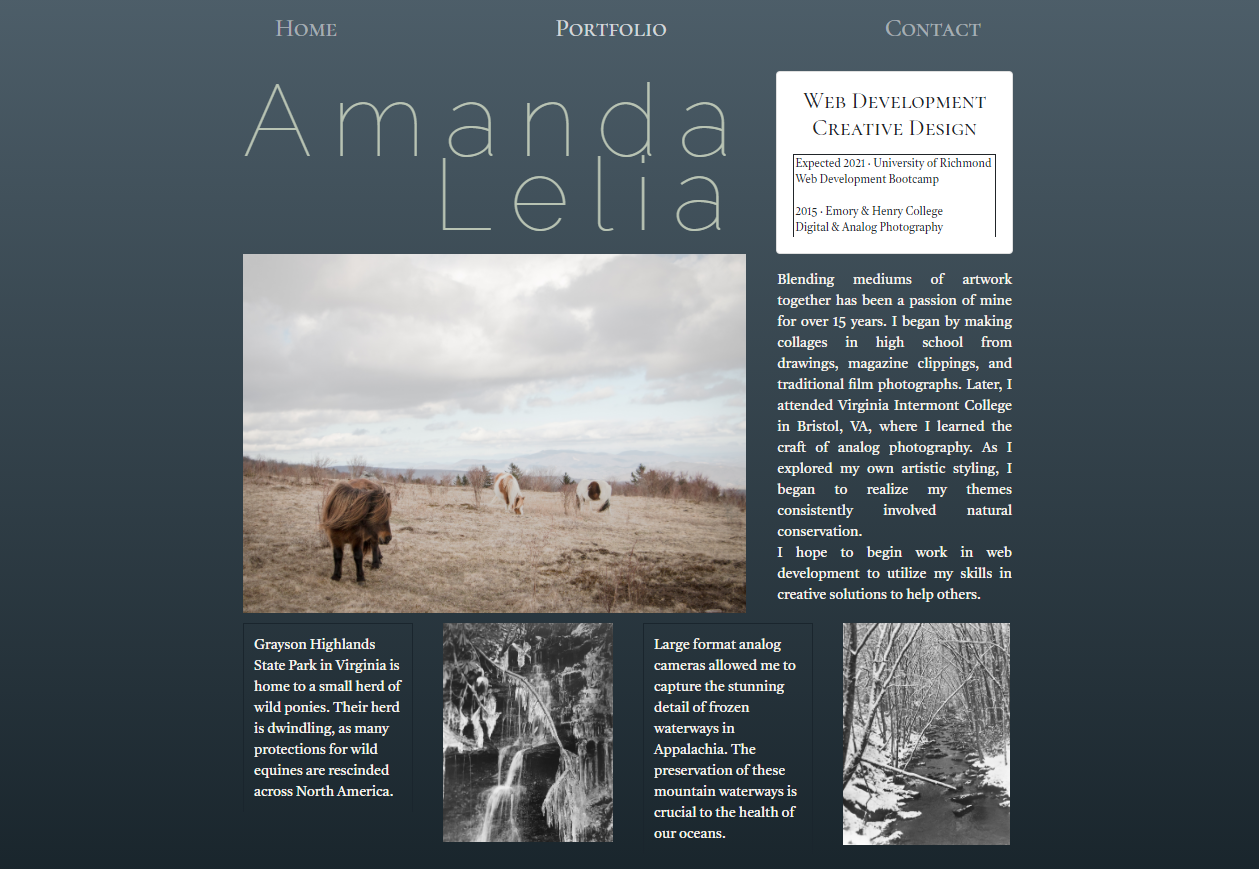
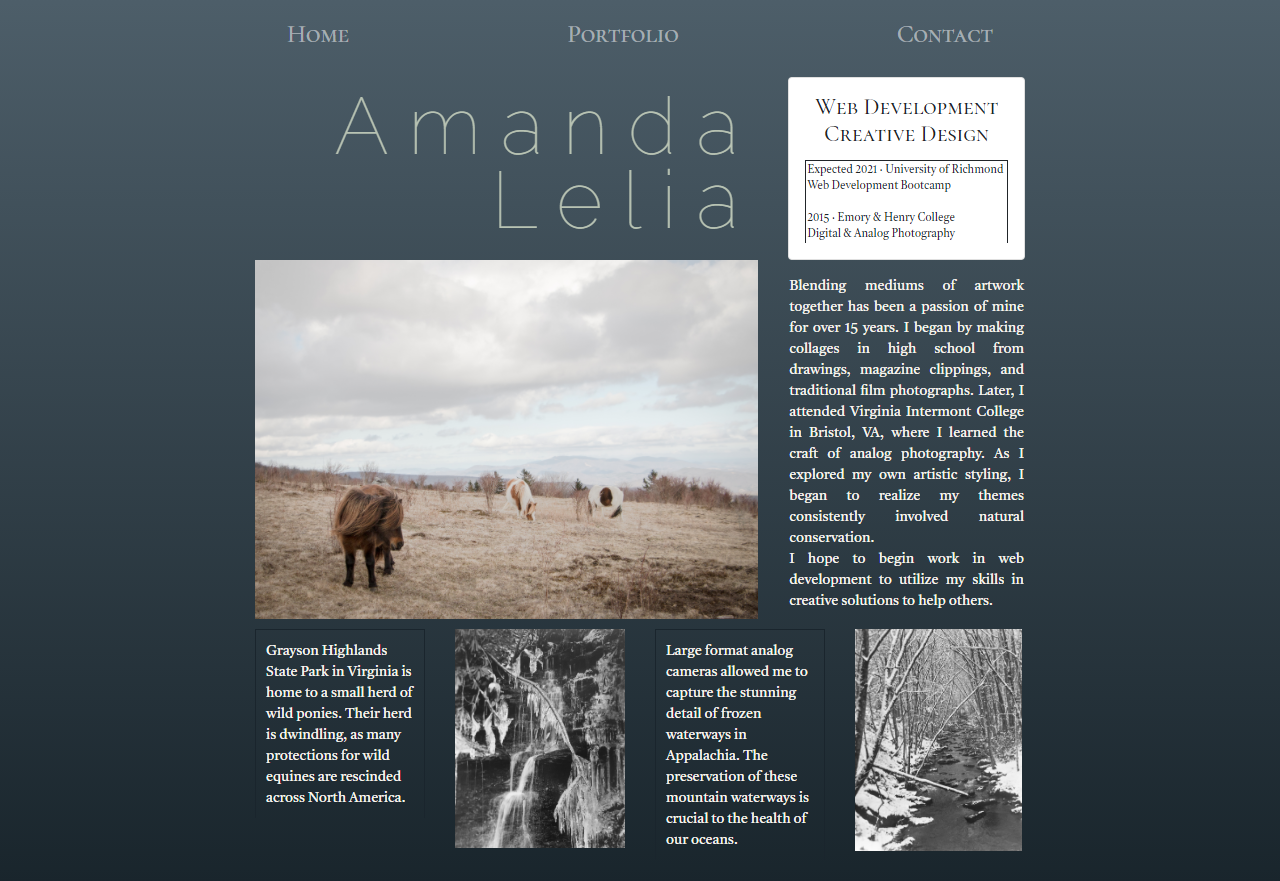
Updated h1 font size in all CSS to be more responsive

diff --git a/assets/css/contact-style.css b/assets/css/contact-style.css
@@ -27,7 +27,7 @@ nav {
 }
 h1 {
     font-family: 'Raleway', sans-serif;
-    font-size: 8vw;
+    font-size: 5em;
     color: #B8C3B3;
     text-align: right;
     line-height: 74px;

diff --git a/assets/css/index-style.css b/assets/css/index-style.css
@@ -33,7 +33,7 @@ nav {
 
 h1 {
     font-family: 'Raleway', sans-serif;
-    font-size: 8vw;
+    font-size: 5em;
     color: #B8C3B3;
     text-align: right;
     line-height: 74px;

diff --git a/assets/css/port-style.css b/assets/css/port-style.css
@@ -36,7 +36,7 @@ nav {
 
 h1 {
     font-family: 'Raleway', sans-serif;
-    font-size: 8vw;
+    font-size: 5em;
     color: #B8C3B3;
     text-align: right;
     line-height: 74px;

diff --git a/README.md b/README.md
@@ -13,8 +13,8 @@ Deployed link: [https://awiehrs.github.io/02-HW/]
 
 ### Screenshot of Deployed Page
 
-![alt text](assets/screenshots/desktop-screenshot.png "Desktop Screenshot")
-![alt text](assets/screenshots/mobile-screenshot.png "Mobile Desktop")
+![screenshots](assets/screenshots/desktop-screenshot.png "Desktop Screenshot")
+![screenshots](assets/screenshots/mobile-screenshot.png "Mobile Desktop")
 
 #### Credits
 
